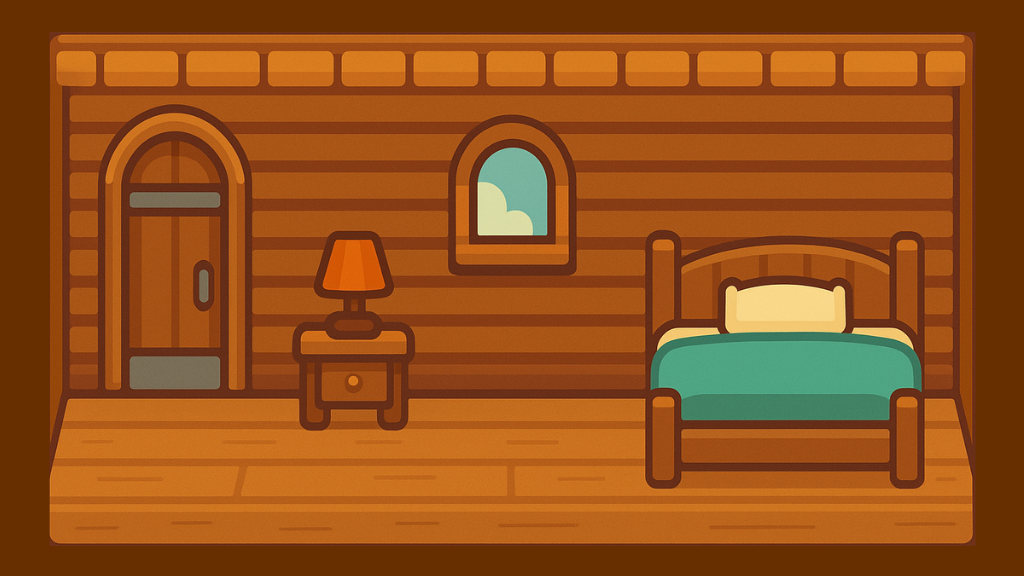
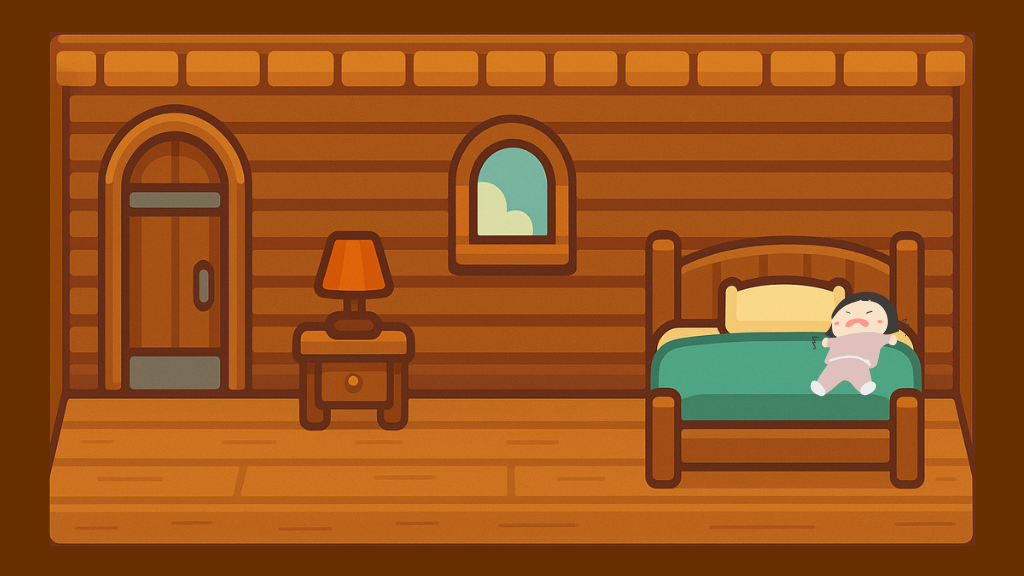
Co-authored-by: cyberravin2015 <cyberravin2015@users.noreply.github.com>

Changed region(s): [[0.7812, 0.5, 0.875, 0.6875]]

diff --git a/index.js b/index.js
@@ -28,7 +28,8 @@ const player = new Player();
 const keys = {
     w: { pressed: false },
     a: { pressed: false },
-    d: { pressed: false }
+    d: { pressed: false },
+    space: { pressed: false }
 };
 
 
@@ -55,9 +56,9 @@ const kitchenDoor = {
 };
 const bedBox = {
     x: 700,
-    y: 300,
+    y: 400,
     width: 550,
-    height: 800
+    height: 300
 };
 
 function isColliding(player, box) {
@@ -72,23 +73,37 @@ function isColliding(player, box) {
 
 let bone = null;
 let boneActive = false;
-let _origKitchenDraw = backgroundKitchen.draw.bind(backgroundKitchen);
 
-function spawnBone(posx, posy) {
+// Store original draw methods for backgrounds
+const originalDrawMethods = new Map();
+originalDrawMethods.set(backgroundKitchen, backgroundKitchen.draw.bind(backgroundKitchen));
+originalDrawMethods.set(backgroundBedroom, backgroundBedroom.draw.bind(backgroundBedroom));
+
+// Generic function to override draw method to include bone
+function overrideDrawWithBone(background) {
+    background.draw = function() {
+        originalDrawMethods.get(background)();
+        if (boneActive && bone) bone.draw();
+    };
+}
+
+// Restore original draw method
+function restoreOriginalDraw(background) {
+    background.draw = originalDrawMethods.get(background);
+}
+
+function spawnBone(posx, posy, background) {
     bone = new Sprite({
         position: { x: posx, y: posy },
         imageSrc: './img/bone.png'
     });
     boneActive = true;
-    backgroundKitchen.draw = function() {
-        _origKitchenDraw();
-        if (boneActive && bone) bone.draw();
-    };
+    overrideDrawWithBone(background);
 }
 
-function removeBone() {
+function removeBone(background) {
     boneActive = false;
-    backgroundKitchen.draw = _origKitchenDraw;
+    restoreOriginalDraw(background);
 }
 
 function animate() {
@@ -104,7 +119,25 @@ function animate() {
         backgroundBedroom.draw();       
     }
     
+c.fillStyle = "white";
+c.font = "30px Arial";
+c.textAlign = "center";
 
+if (currentLevel === 1) {
+    c.fillText("Living Room", canvas.width / 2, 50);
+}
+
+if (currentLevel === 2) {
+    if (boneActive) {
+        c.fillText("Go collect the bone!", canvas.width / 2, 50);
+    } else {
+        c.fillText("Yay! Let's go to the bedroom.", canvas.width / 2, 50);
+    }
+}
+
+if (currentLevel === 3) {
+    c.fillText("Bedroom — Press enter to drop the bone", canvas.width / 2, 50);
+}
     player.velocity.x = 0;
     if (keys.d.pressed) player.velocity.x = 5;
     else if (keys.a.pressed) player.velocity.x = -5;
@@ -121,12 +154,12 @@ function animate() {
         player.position.y = 450;
 
         // spawn bone and set up kitchen draw
-        spawnBone(600,300);
+        spawnBone(600, 300, backgroundKitchen);
     }
 
     // Remove bone if player collides with boneBox in kitchen
     if (currentLevel === 2 && boneActive && isColliding(player, boneBox)) {
-        removeBone();
+        removeBone(backgroundKitchen);
     }
 
     if (currentLevel === 2 && boneActive === false && isColliding(player, livingRoomDoor)) {
@@ -139,14 +172,18 @@ function animate() {
         player.position.x = livingRoomDoor.x - player.width - 1;
         player.velocity.x = 0;
     }
-
     if (currentLevel === 3 && isColliding(player, bedBox)){
         player.velocity.x = 0;
         player.velocity.y = 0;
-        spawnBone(850,350);
-    } 
-}
 
+        // Only drop the bone and override draw once when Enter is pressed and bone is not already active
+        if (keys.space.pressed && !boneActive) {
+            spawnBone(700, 300, backgroundBedroom);
+            c.fillText("Yay! your best friend is happy now.", canvas.width / 2, 50);
+        } 
+    }
+
+}
 animate()
 
 

diff --git a/js/eventListeners.js b/js/eventListeners.js
@@ -10,9 +10,9 @@ window.addEventListener('keydown', (event) => {
        case 'd':
             keys.d.pressed = true;
             break
-       case 'enter':
-           keys.enter.pressed = true;
-               break
+       case ' ':
+           keys.space.pressed = true;
+           break
     }
 })
 
